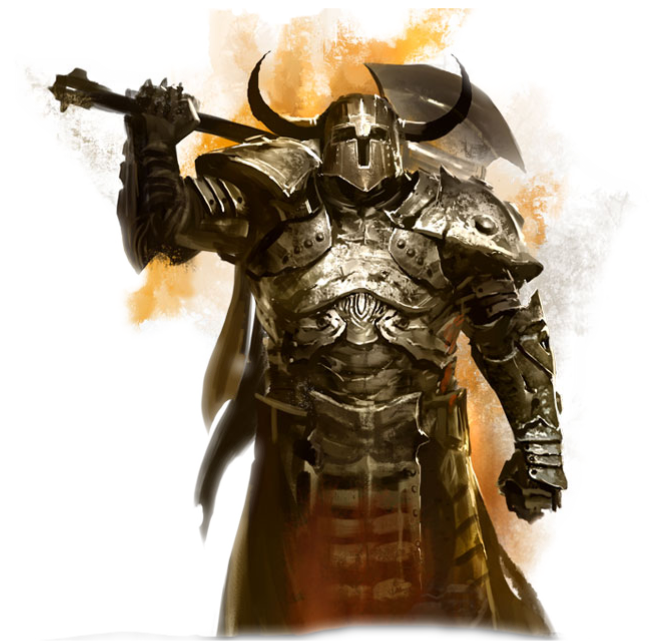
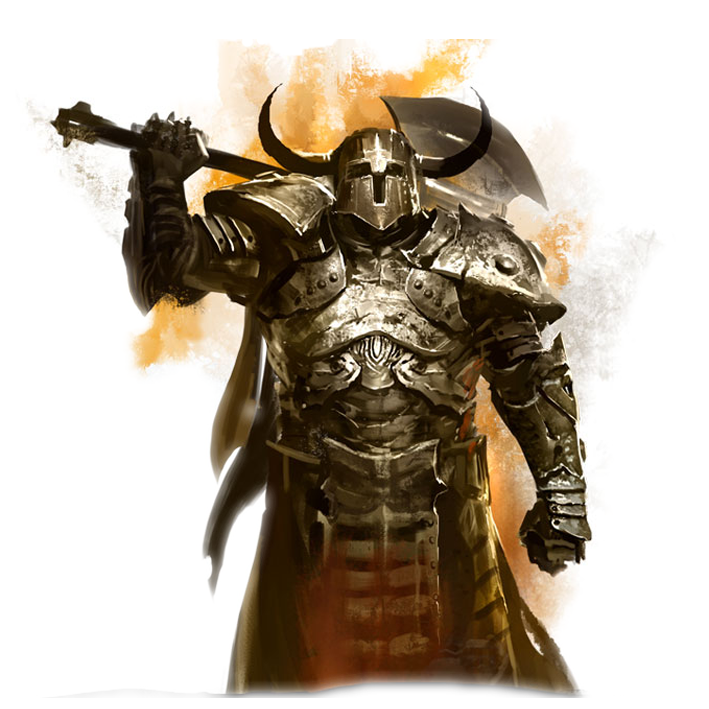
updated the prof, added style and updated layout

diff --git a/public/stylesheets/style.css b/public/stylesheets/style.css
@@ -222,9 +222,10 @@ h1.pageTitle{
 .raceimg {
     margin: 0;
     padding: 0;
+    padding-bottom: 20px;
     position: relative;
-    height: 75%;
-    width: 75%;
+    height: auto;
+    width: auto;
 }
 
 .fullWidth {
@@ -245,16 +246,16 @@ h1.pageTitle{
 /****************************************
 ============  PROFFESSIONS  =============
 *****************************************/
-
-.professionlogo>div img {
-    position: relative;
-    margin-left: 25%;
-    margin-right: 25%;
-    margin-bottom: 30px;
-    text-align: center;
-    /*max-height: 100px;*/
-    /*max-width: 100px;*/
-    height: 50%;
-    width: 50%;
+.profLogo{
+    height: 20%;
+    width: 20%;
+    top: 50%;
 }
 
+.profTitle{
+
+}
+
+.profText{
+
+}
